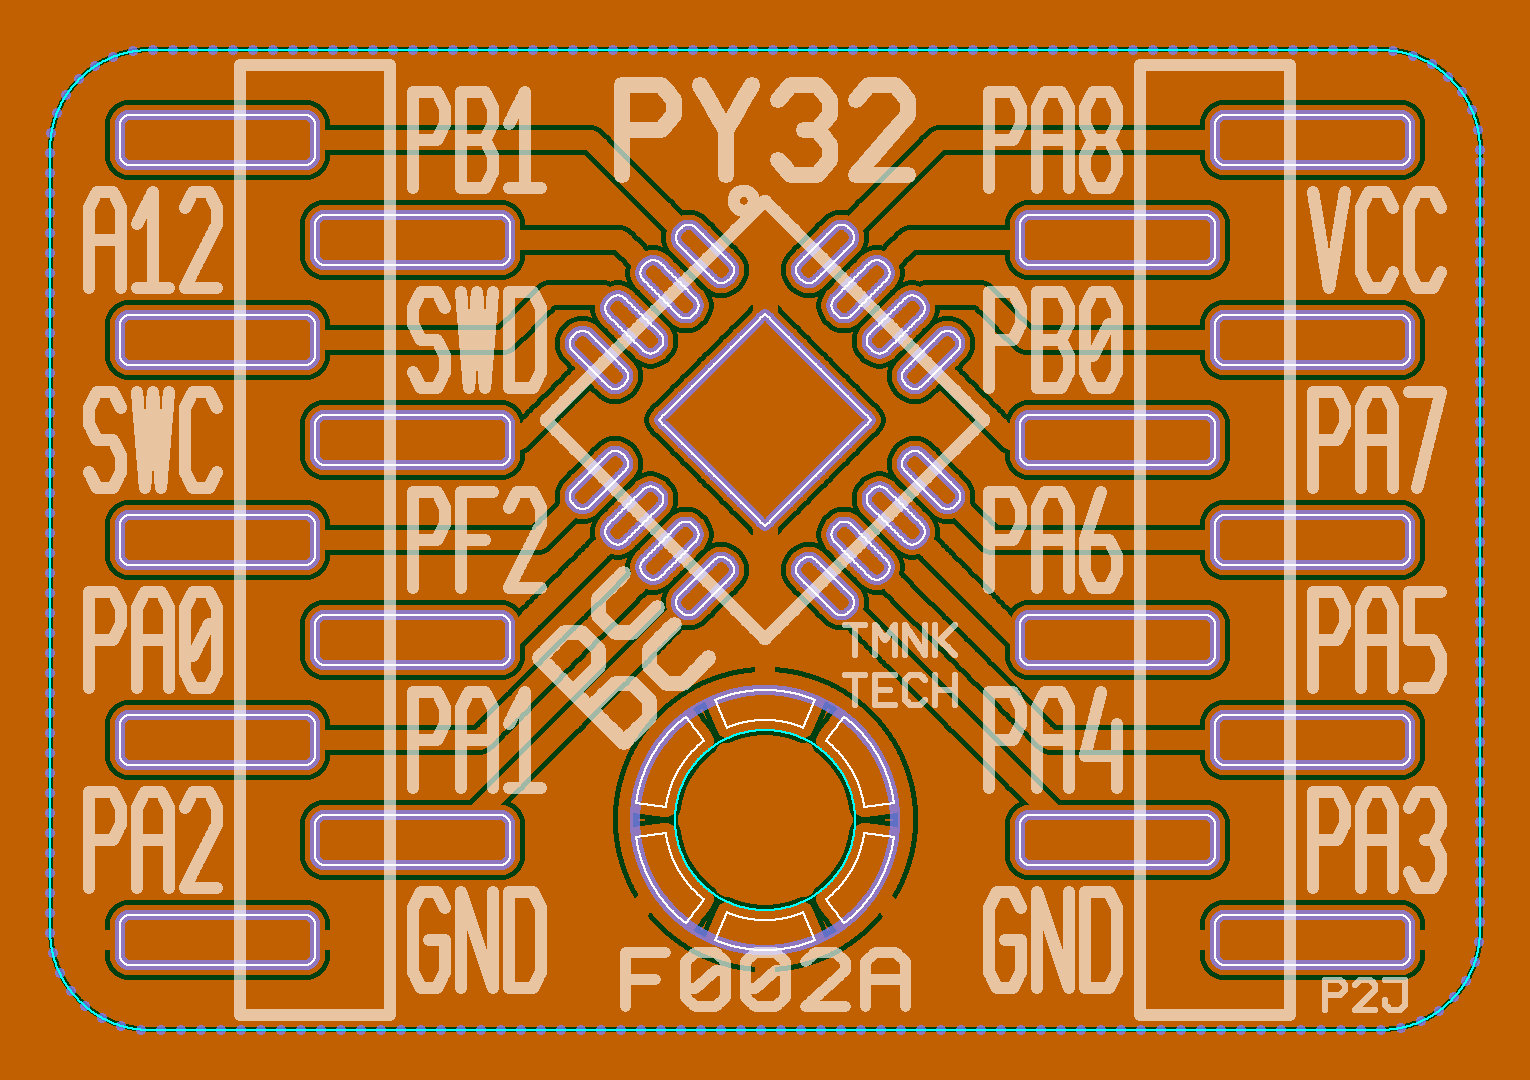
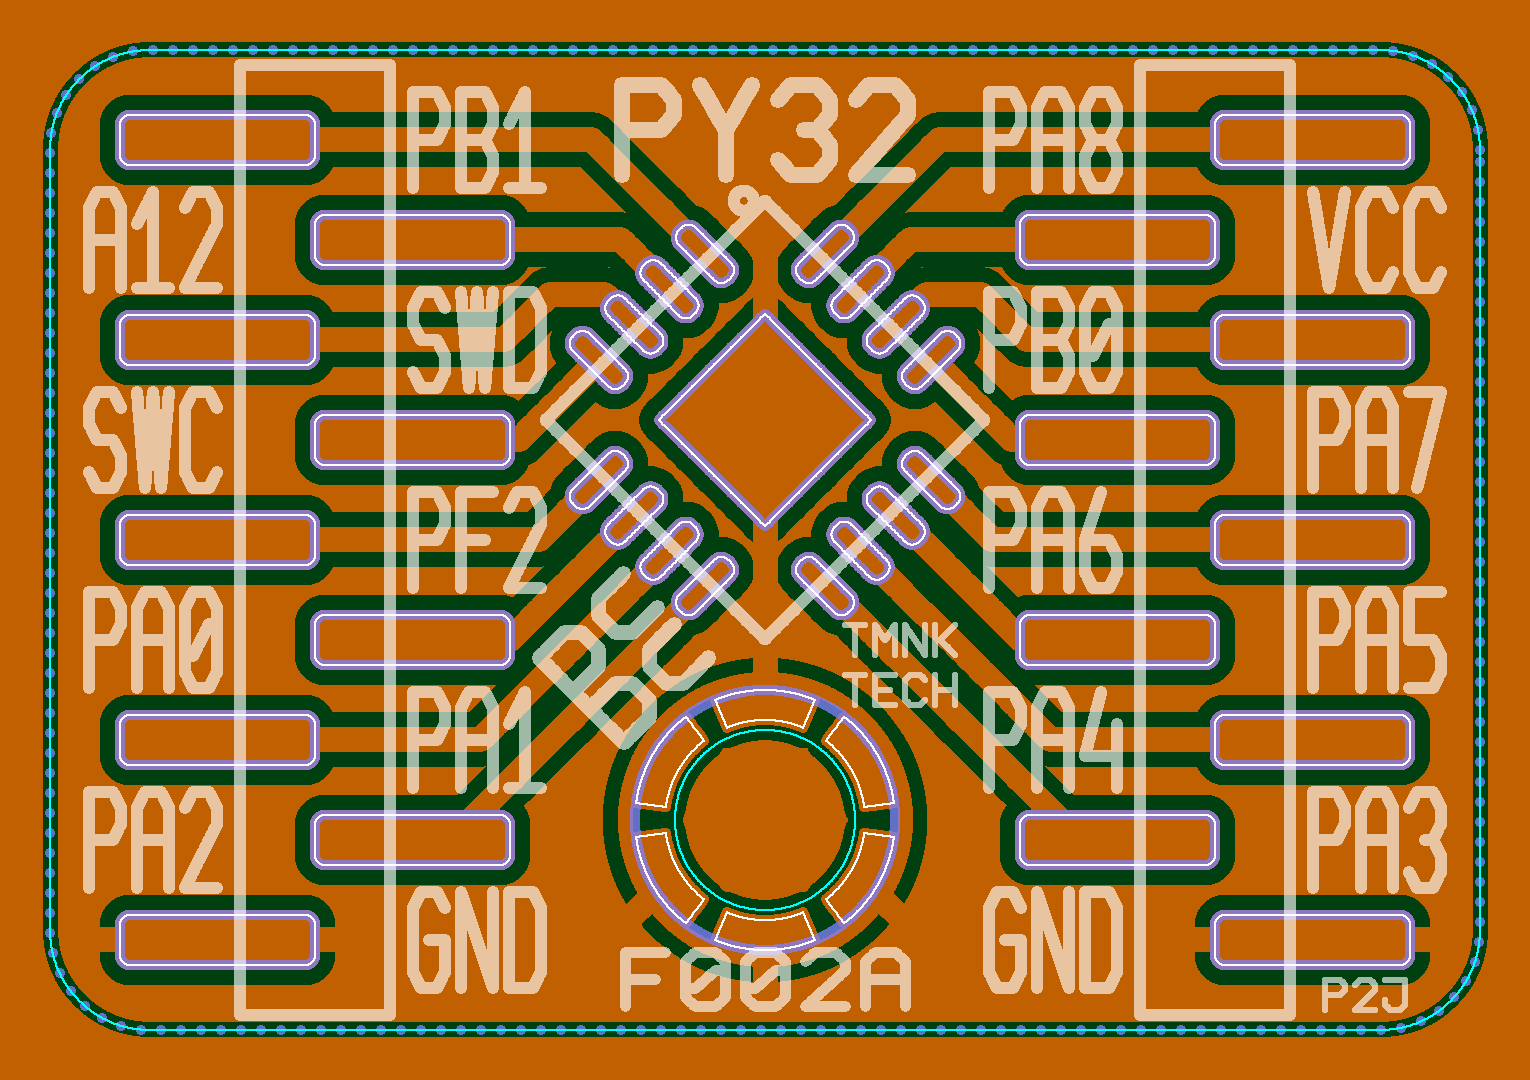
Test board: increase track width

Changed region(s): [[0.0307, 0.0306, 0.983, 0.9778], [0.7987, 0.7639, 0.8294, 0.7944]]

diff --git a/eda/boards/puya/qfn16/board_test.go b/eda/boards/puya/qfn16/board_test.go
@@ -10,12 +10,12 @@ import (
 )
 
 func TestBoard(t *testing.T) {
-	Board.TrackWidth = 0.2
+	Board.TrackWidth = 0.25
 	config := config.Default()
 	config.ExtraCopperWidth = 0.0
 	//config.ExtraCopperWidth = 0.025
-	config.ExtraPadCopperWidth = 0.2
-	config.CopperClearWidth = 0.05
+	config.ExtraPadCopperWidth = 0.1
+	config.CopperClearWidth = 0.15
 
 	//config.SpacerPeriod = 0.30
 	//config.SpacerWidth = 0.15
